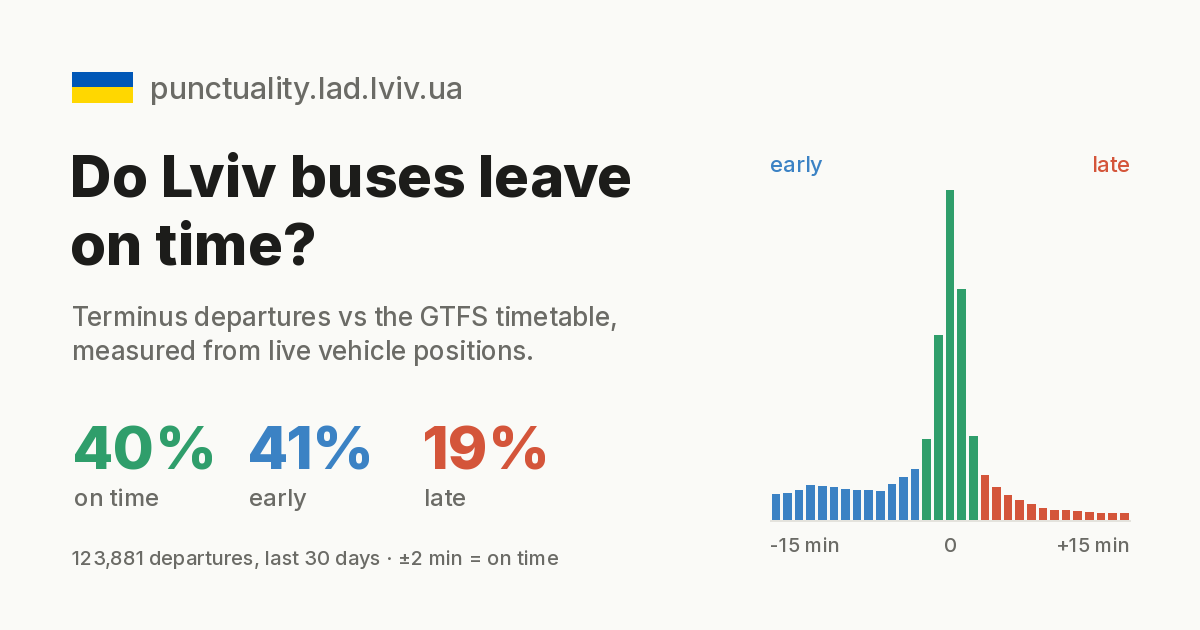
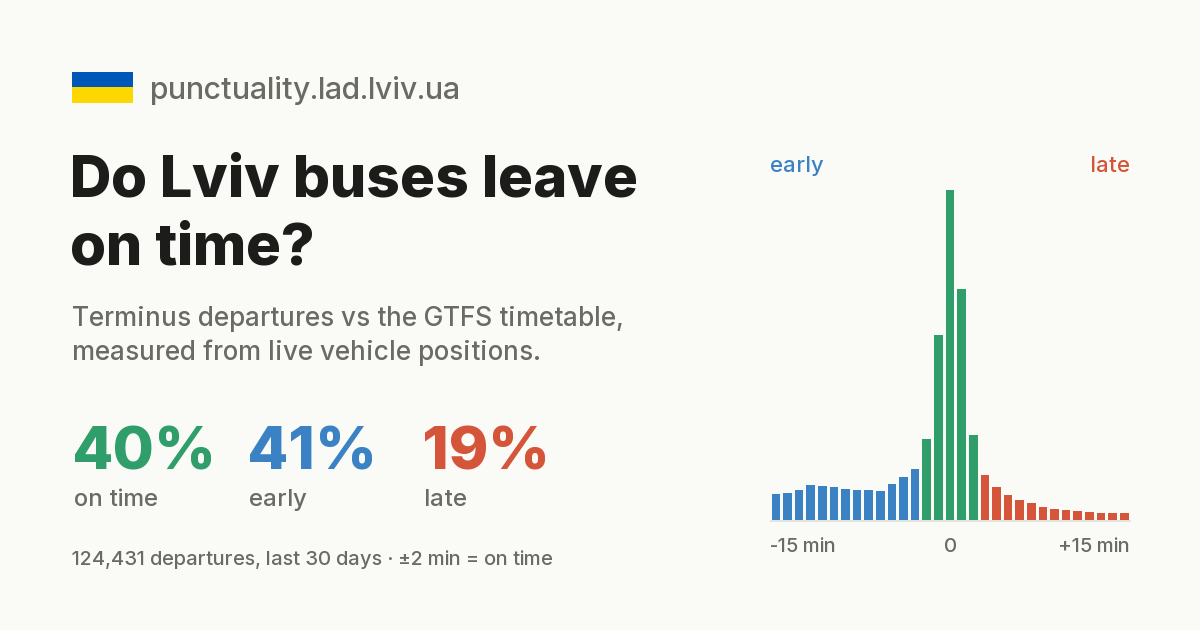
chore(scripts): og.py renders the share image from live summary

diff --git a/scripts/og.py b/scripts/og.py
@@ -1,0 +1,52 @@
+# /// script
+# dependencies = ["pillow"]
+# ///
+"""Render public/og.png (1200x630 share image) from the live /api/summary.
+
+    uv run scripts/og.py [base-url]   # default https://punctuality.lad.lviv.ua
+
+The numbers are baked in; re-run and deploy to refresh them.
+Fonts are Inter subsets (SIL OFL, see og-fonts/OFL.txt).
+"""
+import sys, json, pathlib, urllib.request
+from PIL import Image, ImageDraw, ImageFont
+HERE = pathlib.Path(__file__).resolve().parent
+F, out = HERE / "og-fonts", HERE.parent / "public" / "og.png"
+base = (sys.argv[1] if len(sys.argv) > 1 else "https://punctuality.lad.lviv.ua").rstrip("/")
+req = urllib.request.Request(f"{base}/api/summary?days=30", headers={"User-Agent": "gtfs-punctuality-og"})
+s = json.load(urllib.request.urlopen(req, timeout=30))
+W, H = 1200, 630
+BG, INK, MUT, LINE = "#fafaf7", "#1c1c1a", "#6b6b66", "#e4e3dd"
+EARLY, OK, LATE = "#3b82c4", "#2f9e6b", "#d4553a"
+img = Image.new("RGB", (W, H), BG); d = ImageDraw.Draw(img)
+bold = lambda z: ImageFont.truetype(f"{F}/Inter-800ExtraBold.ttf", z)
+med = lambda z: ImageFont.truetype(f"{F}/Inter-500Medium.ttf", z)
+d.rectangle((72, 72, 132, 87), fill="#0057b7"); d.rectangle((72, 87, 132, 102), fill="#ffd700")
+d.text((150, 69), "punctuality.lad.lviv.ua", font=med(30), fill=MUT)
+d.text((70, 140), "Do Lviv buses leave", font=bold(58), fill=INK)
+d.text((70, 208), "on time?", font=bold(58), fill=INK)
+d.text((72, 300), "Terminus departures vs the GTFS timetable,", font=med(26), fill=MUT)
+d.text((72, 334), "measured from live vehicle positions.", font=med(26), fill=MUT)
+t = s["total"]
+for i, (v, lab, c) in enumerate([(t["onTime"], "on time", OK), (t["early"], "early", EARLY), (t["late"], "late", LATE)]):
+    x = 72 + i * 175
+    d.text((x, 410), f"{round(v*100)}%", font=bold(60), fill=c)
+    d.text((x + 2, 482), lab, font=med(24), fill=MUT)
+d.text((72, 545), f"{t['n']:,} departures, last {s['days']} days · ±2 min = on time", font=med(20), fill=MUT)
+# histogram -15..+15 min on the right
+hist = {b["bin"]: b["n"] for b in s["histogram"]}
+bins = list(range(-15, 16)); mx = max(hist.get(b, 0) for b in bins)
+x0, x1, yb, ht = 770, 1130, 520, 330
+bw = (x1 - x0) / len(bins)
+d.line((x0, yb, x1, yb), fill=LINE, width=2)
+for i, b in enumerate(bins):
+    h = ht * hist.get(b, 0) / mx
+    c = EARLY if b < -2 else LATE if b > 2 else OK
+    d.rectangle((x0 + i * bw + 2, yb - h, x0 + (i + 1) * bw - 2, yb - 1), fill=c)
+for b, lab in [(-15, "-15 min"), (0, "0"), (15, "+15 min")]:
+    cx = x0 + (b + 15 + 0.5) * bw
+    f = med(20); w = d.textlength(lab, font=f)
+    d.text((cx - (w / 2 if b == 0 else w - bw / 2 if b == 15 else bw / 2), yb + 12), lab, font=f, fill=MUT)
+d.text((x0, yb - ht - 40), "early", font=med(22), fill=EARLY)
+d.text((x1 - d.textlength("late", font=med(22)), yb - ht - 40), "late", font=med(22), fill=LATE)
+img.save(out, optimize=True)

diff --git a/README.uk.md b/README.uk.md
@@ -196,6 +196,7 @@ D1 Free дозволяє **100 тис. записаних і 5 млн прочи
 ```sh
 npm test      # автомат виявлення, декодер protobuf, київський час, статистика
 npm run dev   # wrangler dev
+uv run scripts/og.py   # перемалювати public/og.png (картинка для соцмереж) з живого /api/summary
 ```
 
 Рядки інтерфейсу обома мовами — у [`public/i18n.js`](public/i18n.js); статична розмітка посилається на них через атрибути `data-i18n`.

diff --git a/README.md b/README.md
@@ -196,6 +196,7 @@ The Workers Free plan allows five cron triggers per account. A Durable Object al
 ```sh
 npm test      # detection state machine, protobuf decoder, Kyiv time, stats
 npm run dev   # wrangler dev
+uv run scripts/og.py   # re-render public/og.png (share image) from live /api/summary
 ```
 
 UI strings for both languages are in [`public/i18n.js`](public/i18n.js); the static markup refers to them through `data-i18n` attributes.
